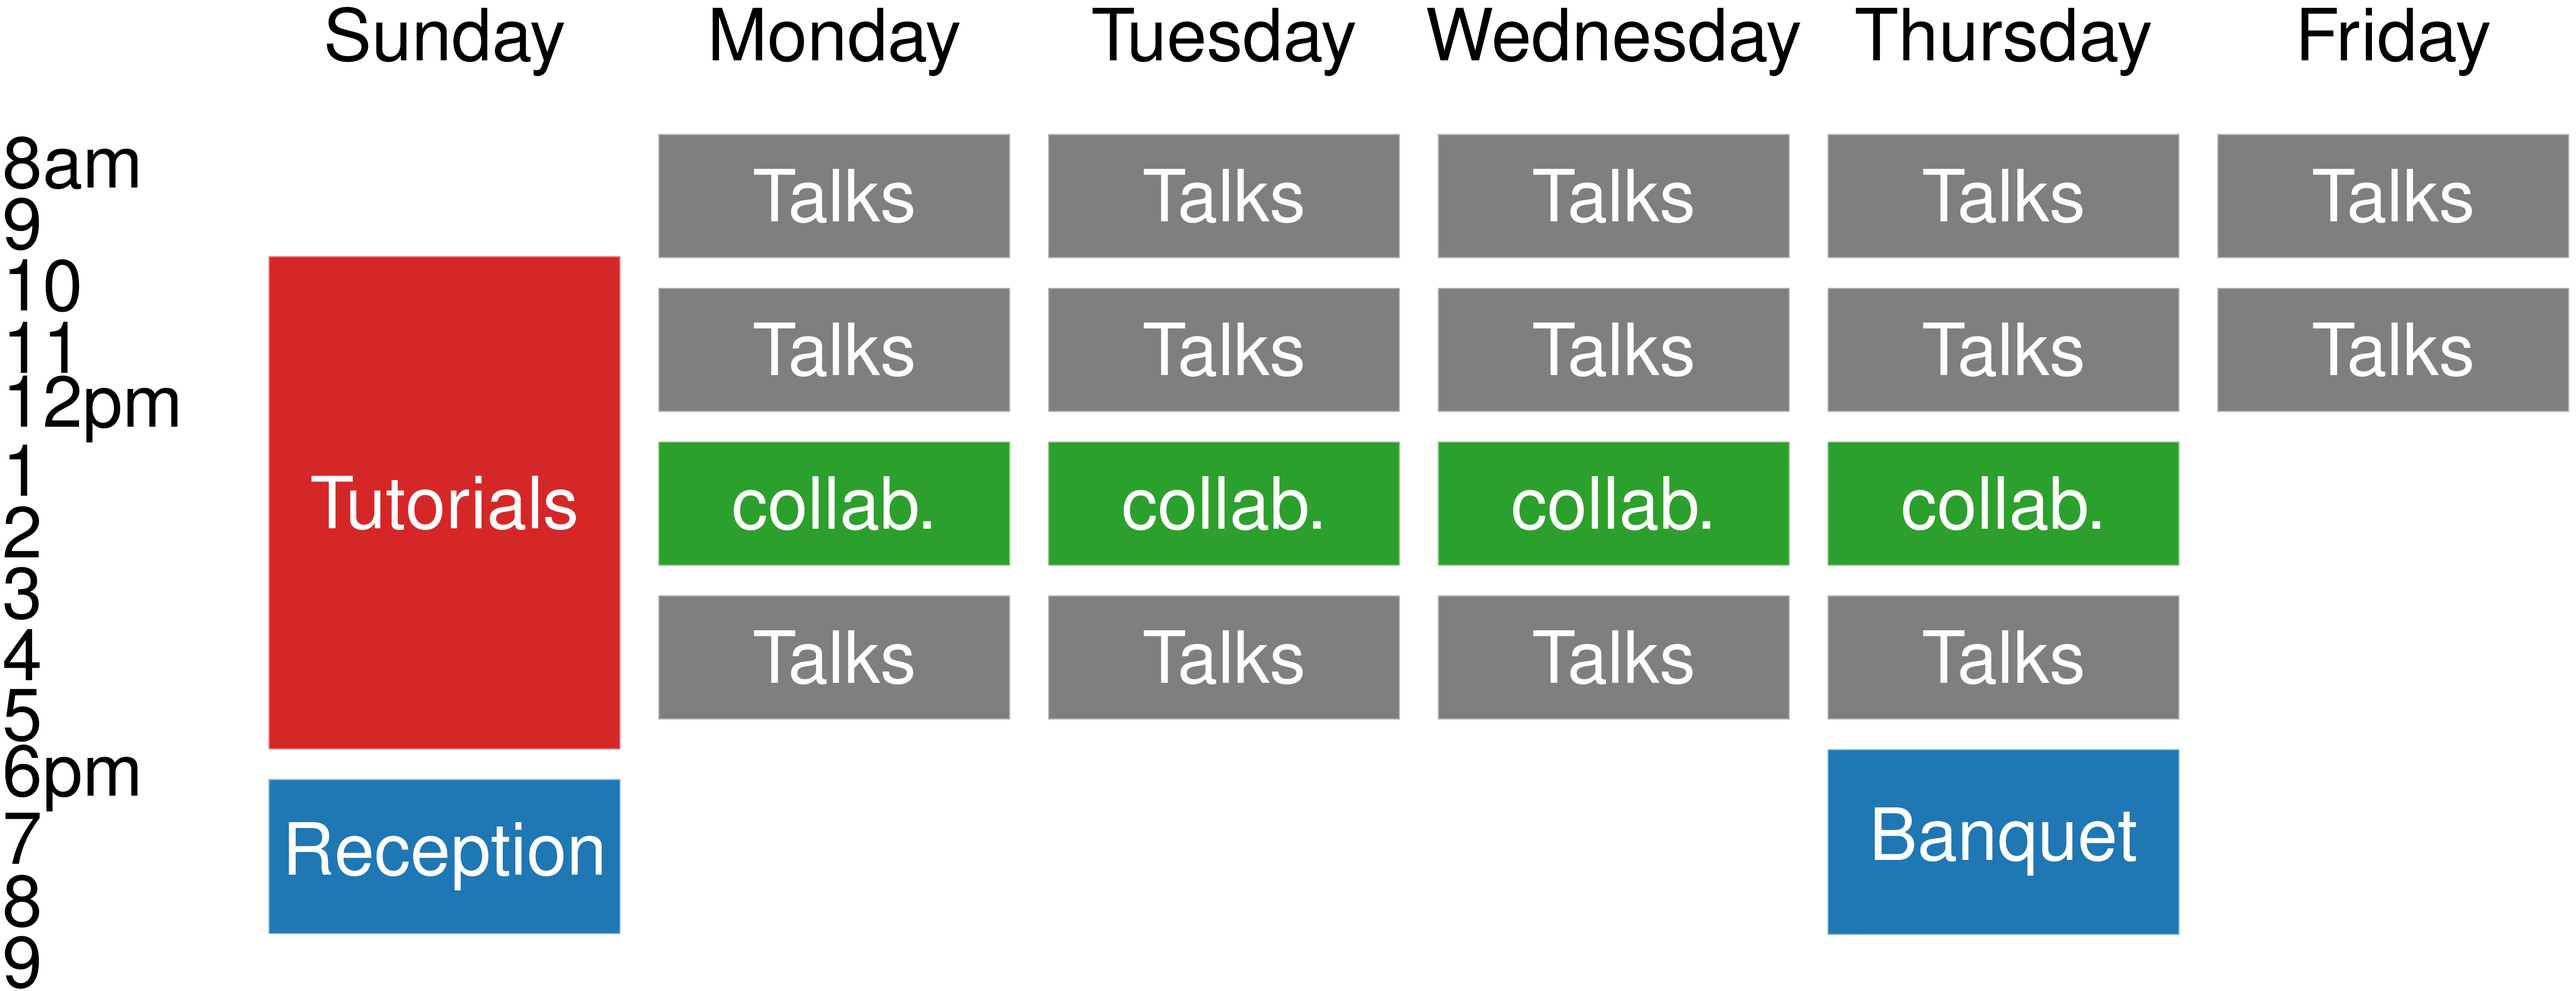
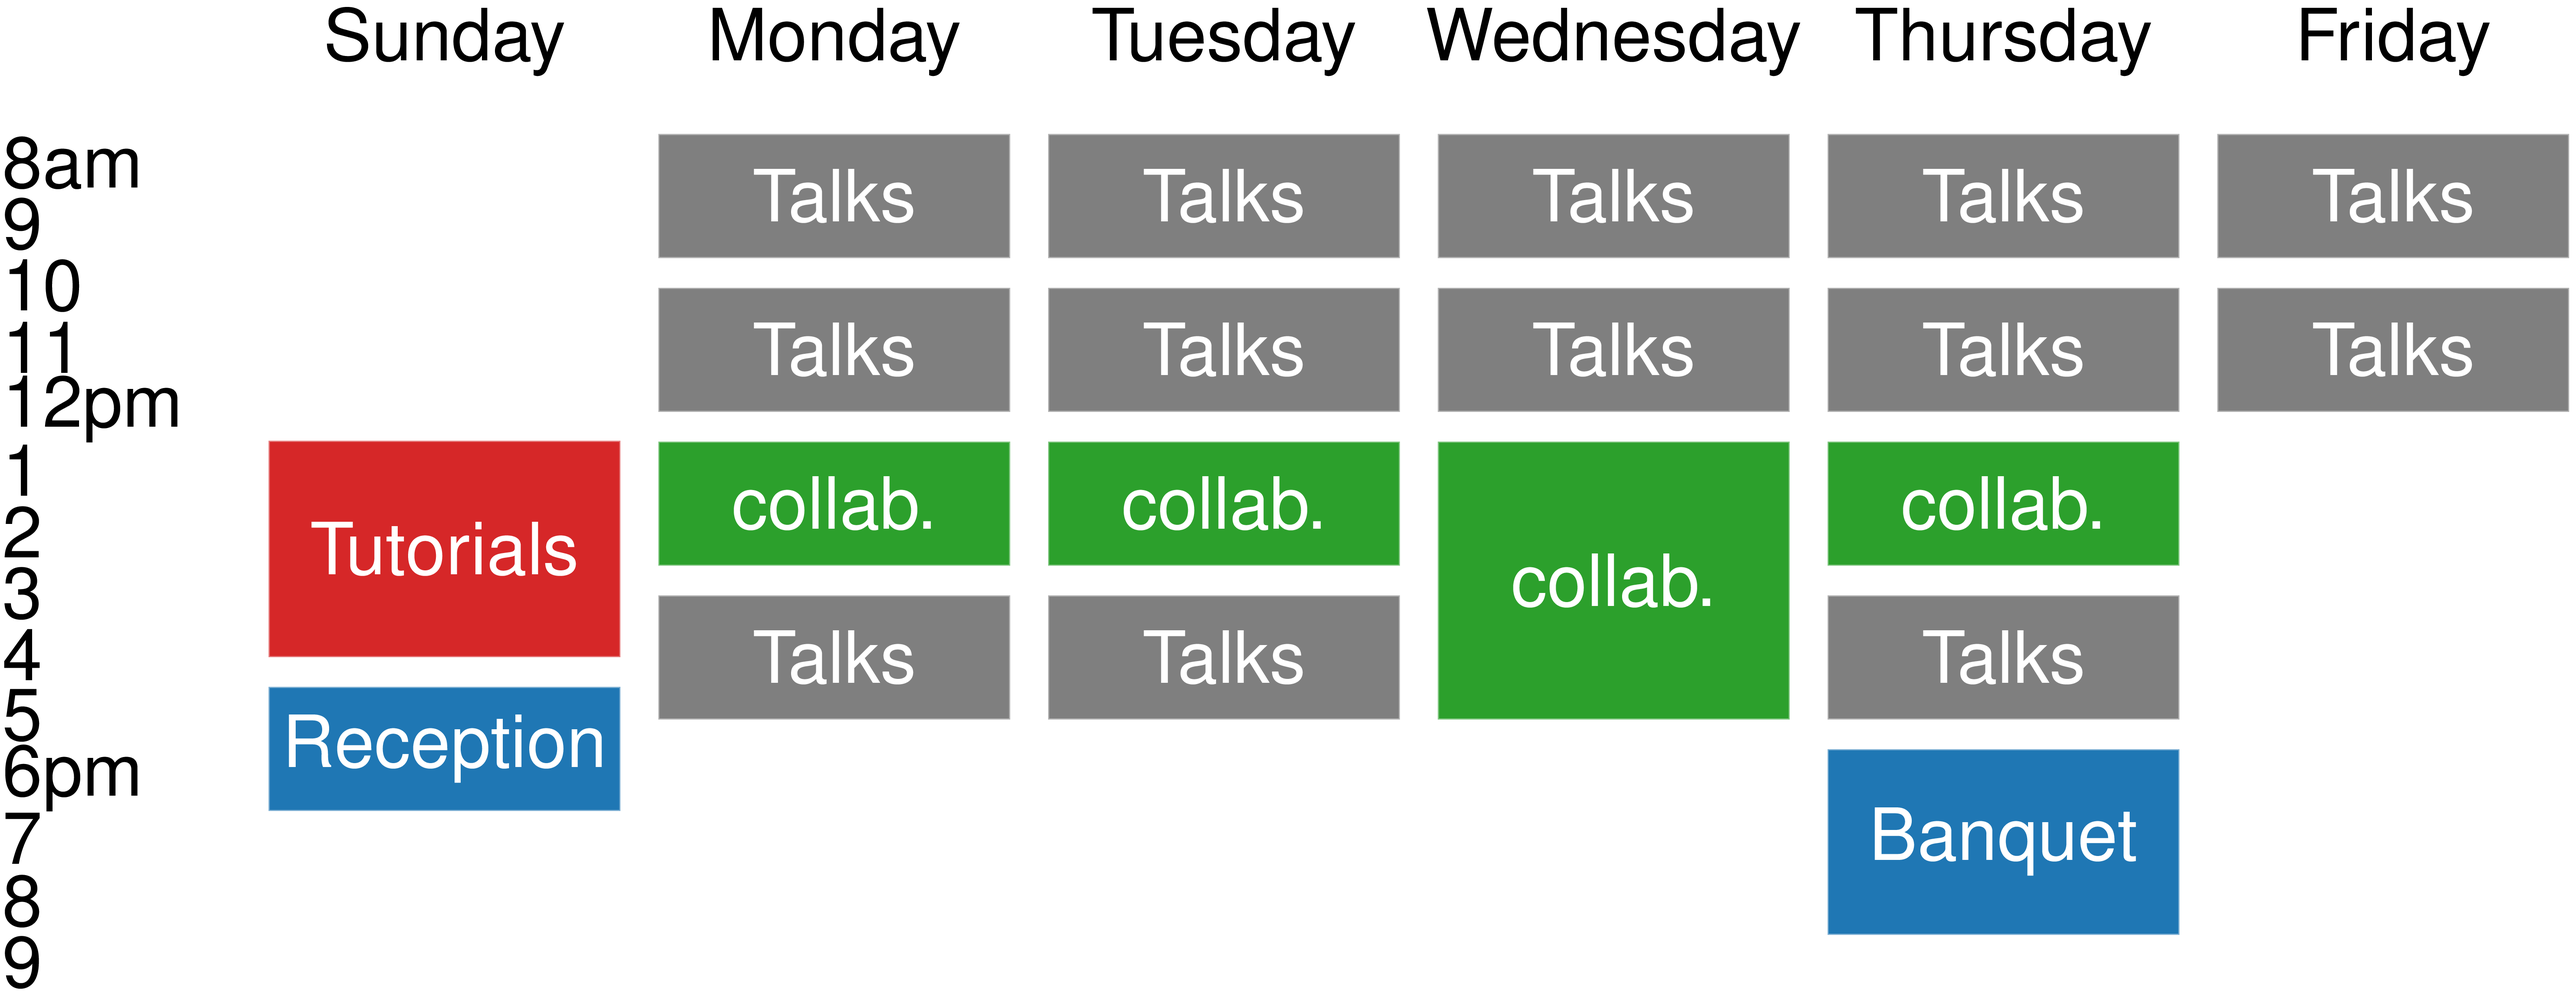
update scheulde 2026

Changed region(s): [[0.0935, 0.6531, 0.2495, 0.9641], [0.0935, 0.2488, 0.2495, 0.5909], [0.5301, 0.4665, 0.7172, 0.7464]]

diff --git a/live/2026/index.html b/live/2026/index.html
@@ -83,7 +83,7 @@
         <li> <i class="bi bi-calendar-week-fill mx-2"></i> <a href="submit.html"        > Presentation Abstracts:        </a> April 10, 2026&nbsp; <strike>April 3, 2026</strike></li>
         <li> <i class="bi bi-calendar-week-fill mx-2"></i> <a href="registration.html"> Registration:</a> April 27, 2026&nbsp; <strike>April 24, 2026&nbsp</strike>; <strike>April 17, 2026</strike></li>
         <li> <i class="bi bi-calendar-week-fill mx-2"></i> <a href="lodging.html"          > Lodging:          </a> June 1, 2026</li>
-        <li> <i class="bi bi-calendar-week-fill mx-2"></i> <a href="about.html#specialissue"     > Special Issue:     </a> TBD</li>
+        <li> <i class="bi bi-calendar-week-fill mx-2"></i> <a href="about.html#specialissue"     > Special Issue submission deadline (open early June):     </a> September 30, 2026</li>
       </ul>
     </div>
   </div>
@@ -119,6 +119,18 @@
       </h6>
       <p class="pb-2">
         <ul class="list-unstyled">
+          <!--hotels, special issue info, big map of campus marking things-->
+          <li><i class="bi bi-bus-front mx-2"></i>Getting to Boulder from DEN: <a href="https://app.rtd-denver.com/route/AB1/schedule?serviceType=3&direction=Eastbound&branch=AB">AB route</a> on the RTD Bus</li>
+          <li><i class="bi bi-pin-map mx-2"></i>Reception location: <a href="https://maps.app.goo.gl/Cv8zDNiXPZLZuAmw8">Cafe Aion</a>, Boulder</li>
+          <li><i class="bi bi-pin-map mx-2"></i>Tutorial location: <a href="https://maps.app.goo.gl/2YQaSh9u5nnTm3xH9">Koelbel Building, CU Campus</a>
+              (<a href="https://www.colorado.edu/business/koelbel-building-maps#ucb-accordion-id--2-content3">Room 323</a>)
+          </li>
+          <li><i class="bi bi-pin-map mx-2"></i>Presentation location: <a href="https://maps.app.goo.gl/2YQaSh9u5nnTm3xH9">Koelbel Building, CU Campus</a>
+              (<a href="https://www.colorado.edu/business/koelbel-building-maps#ucb-accordion-id--2-content3">Rooms 317 and 323</a>)
+          </li>
+          <li><i class="bi bi-pin-map mx-2"></i>Banquet location: <a href="https://maps.app.goo.gl/2YQaSh9u5nnTm3xH9">Koenig Alumni Center, CU Campus</a>
+              (<a href="https://www.colorado.edu/alumni/about/visit">main floor</a>)
+          </li>
           <li><i class="bi bi-people-fill mx-2"></i><a href="people.html#chair">Conference Chairs</a></li>
           <li><i class="bi bi-people-fill mx-2"></i><a href="people.html#committee">Conference Program Committee</a></li>
           <li><i class="bi bi-people-fill mx-2"></i><a href="about.html#topics">Conference Highlights</a></li>

diff --git a/live/2026/about.html b/live/2026/about.html
@@ -124,7 +124,7 @@
     <p>
         Submissions for the special issue will be accepted from
         TBD until
-        <b>TBD</b>.  Papers will be subject to review
+        <b>September 30, 2026</b>.  Papers will be subject to review
         by a guest Editorial Board.  Submissions should be made using the ordinary
         submission process at <a href="http://sisc.siam.org">
             http://sisc.siam.org</a>, with a statement in the cover letter requesting
